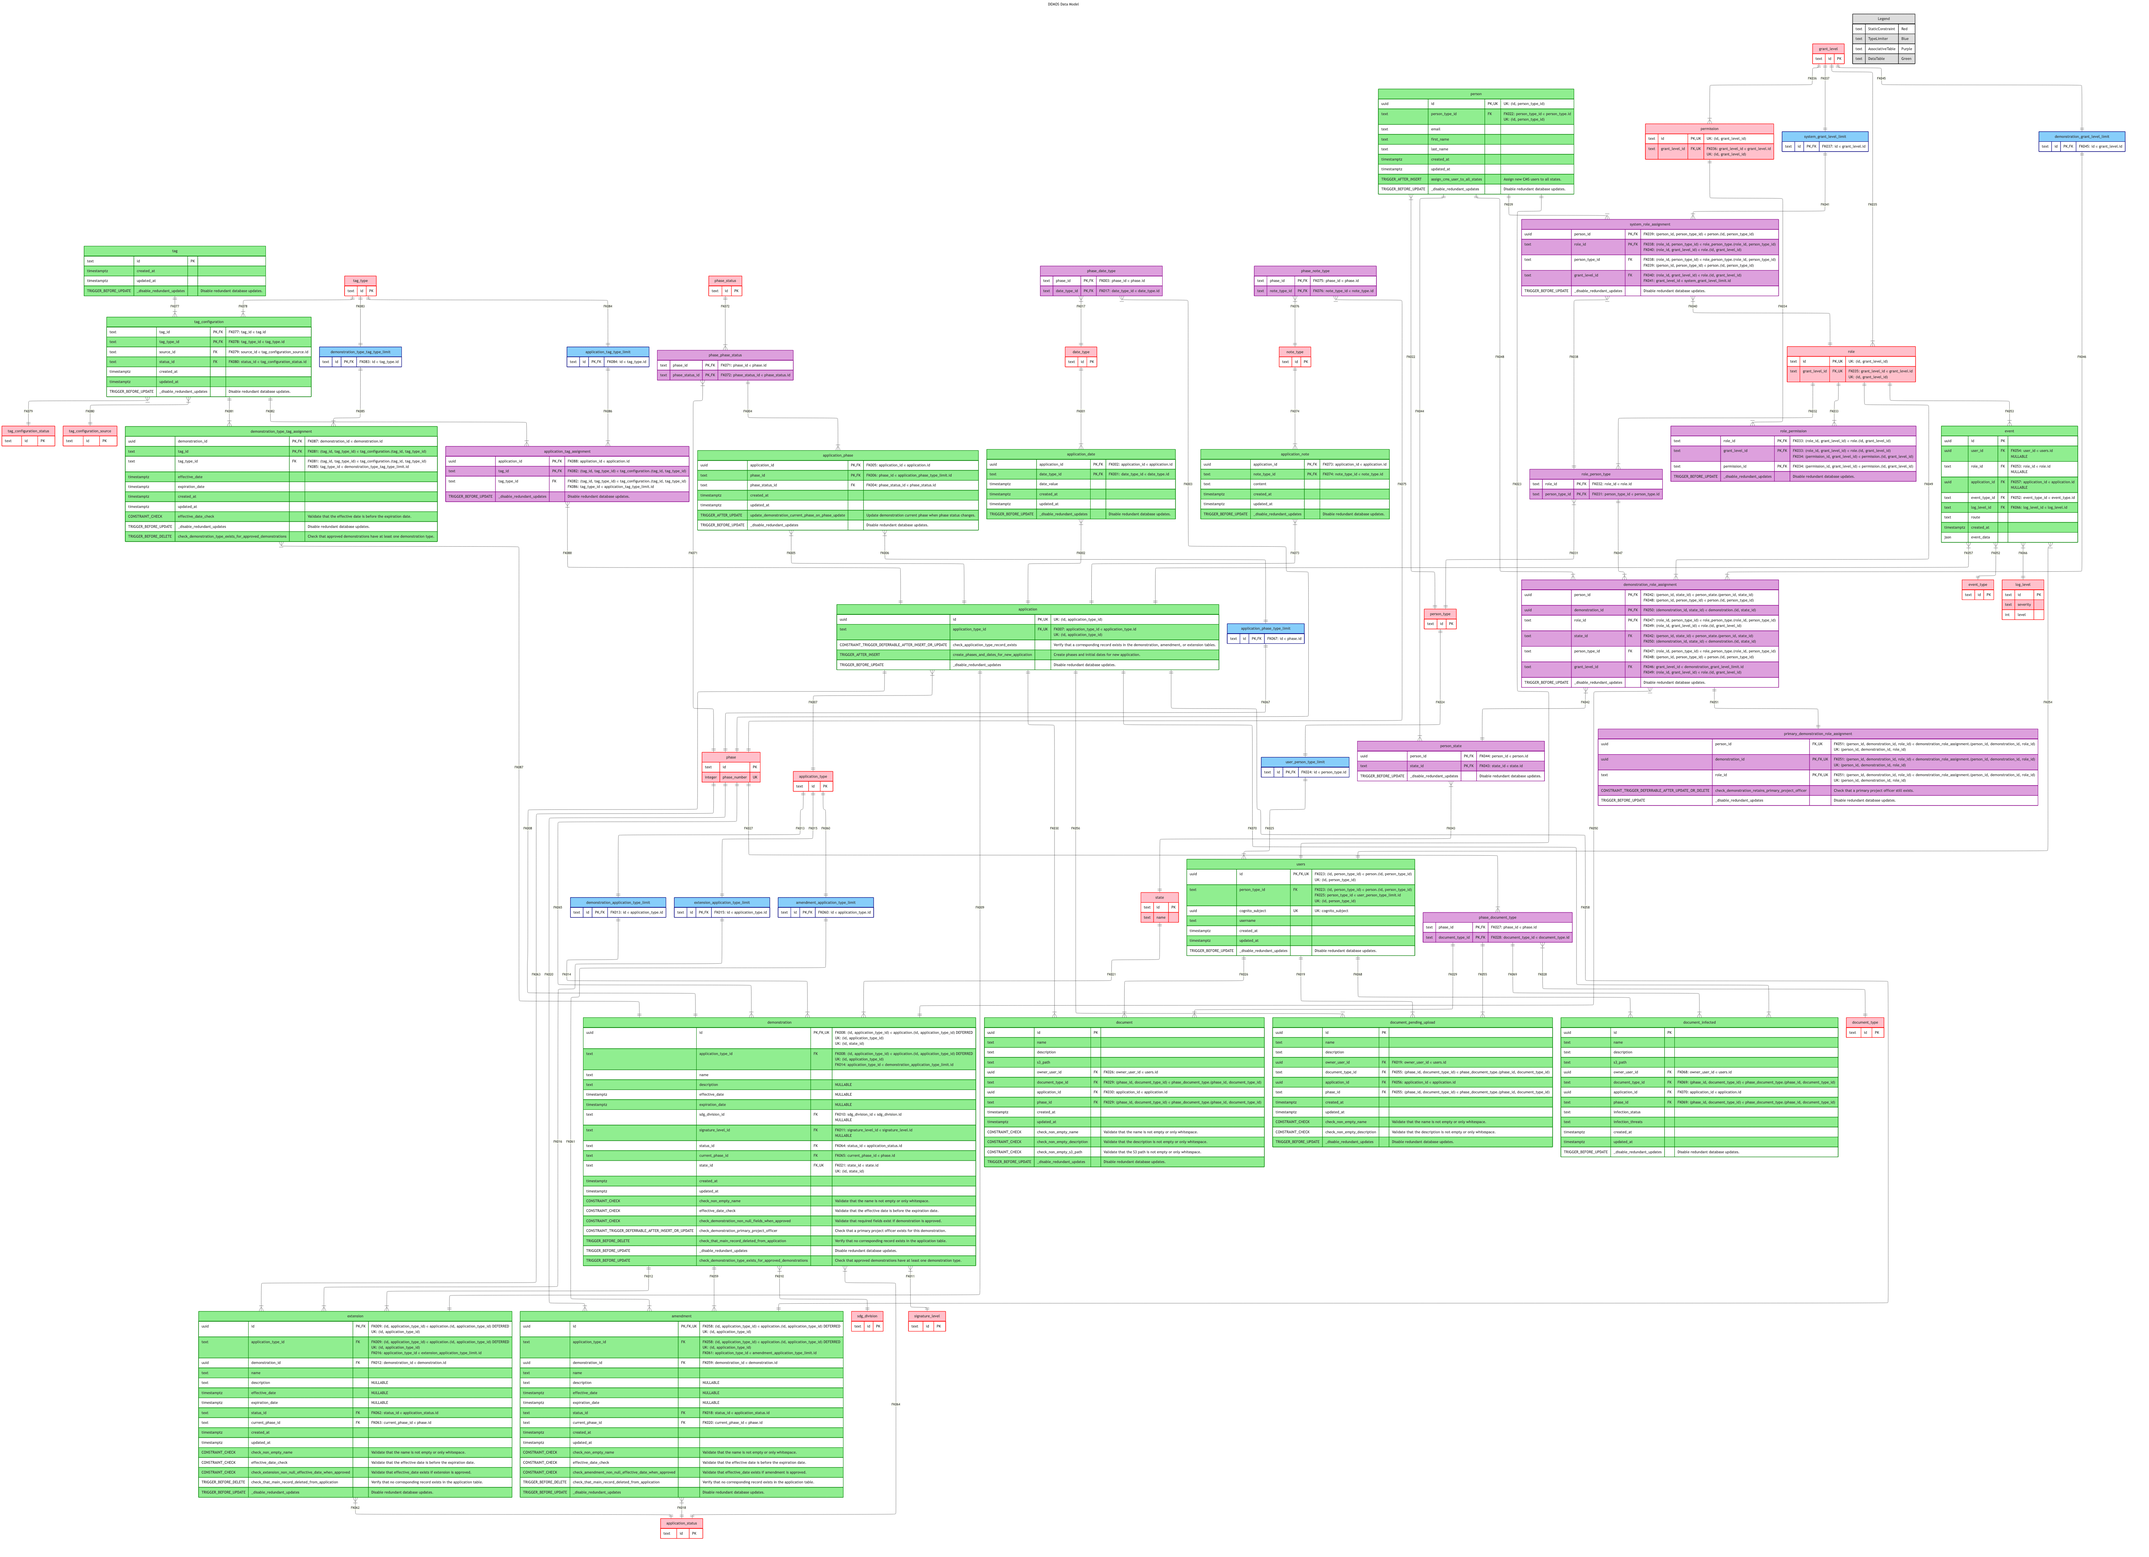
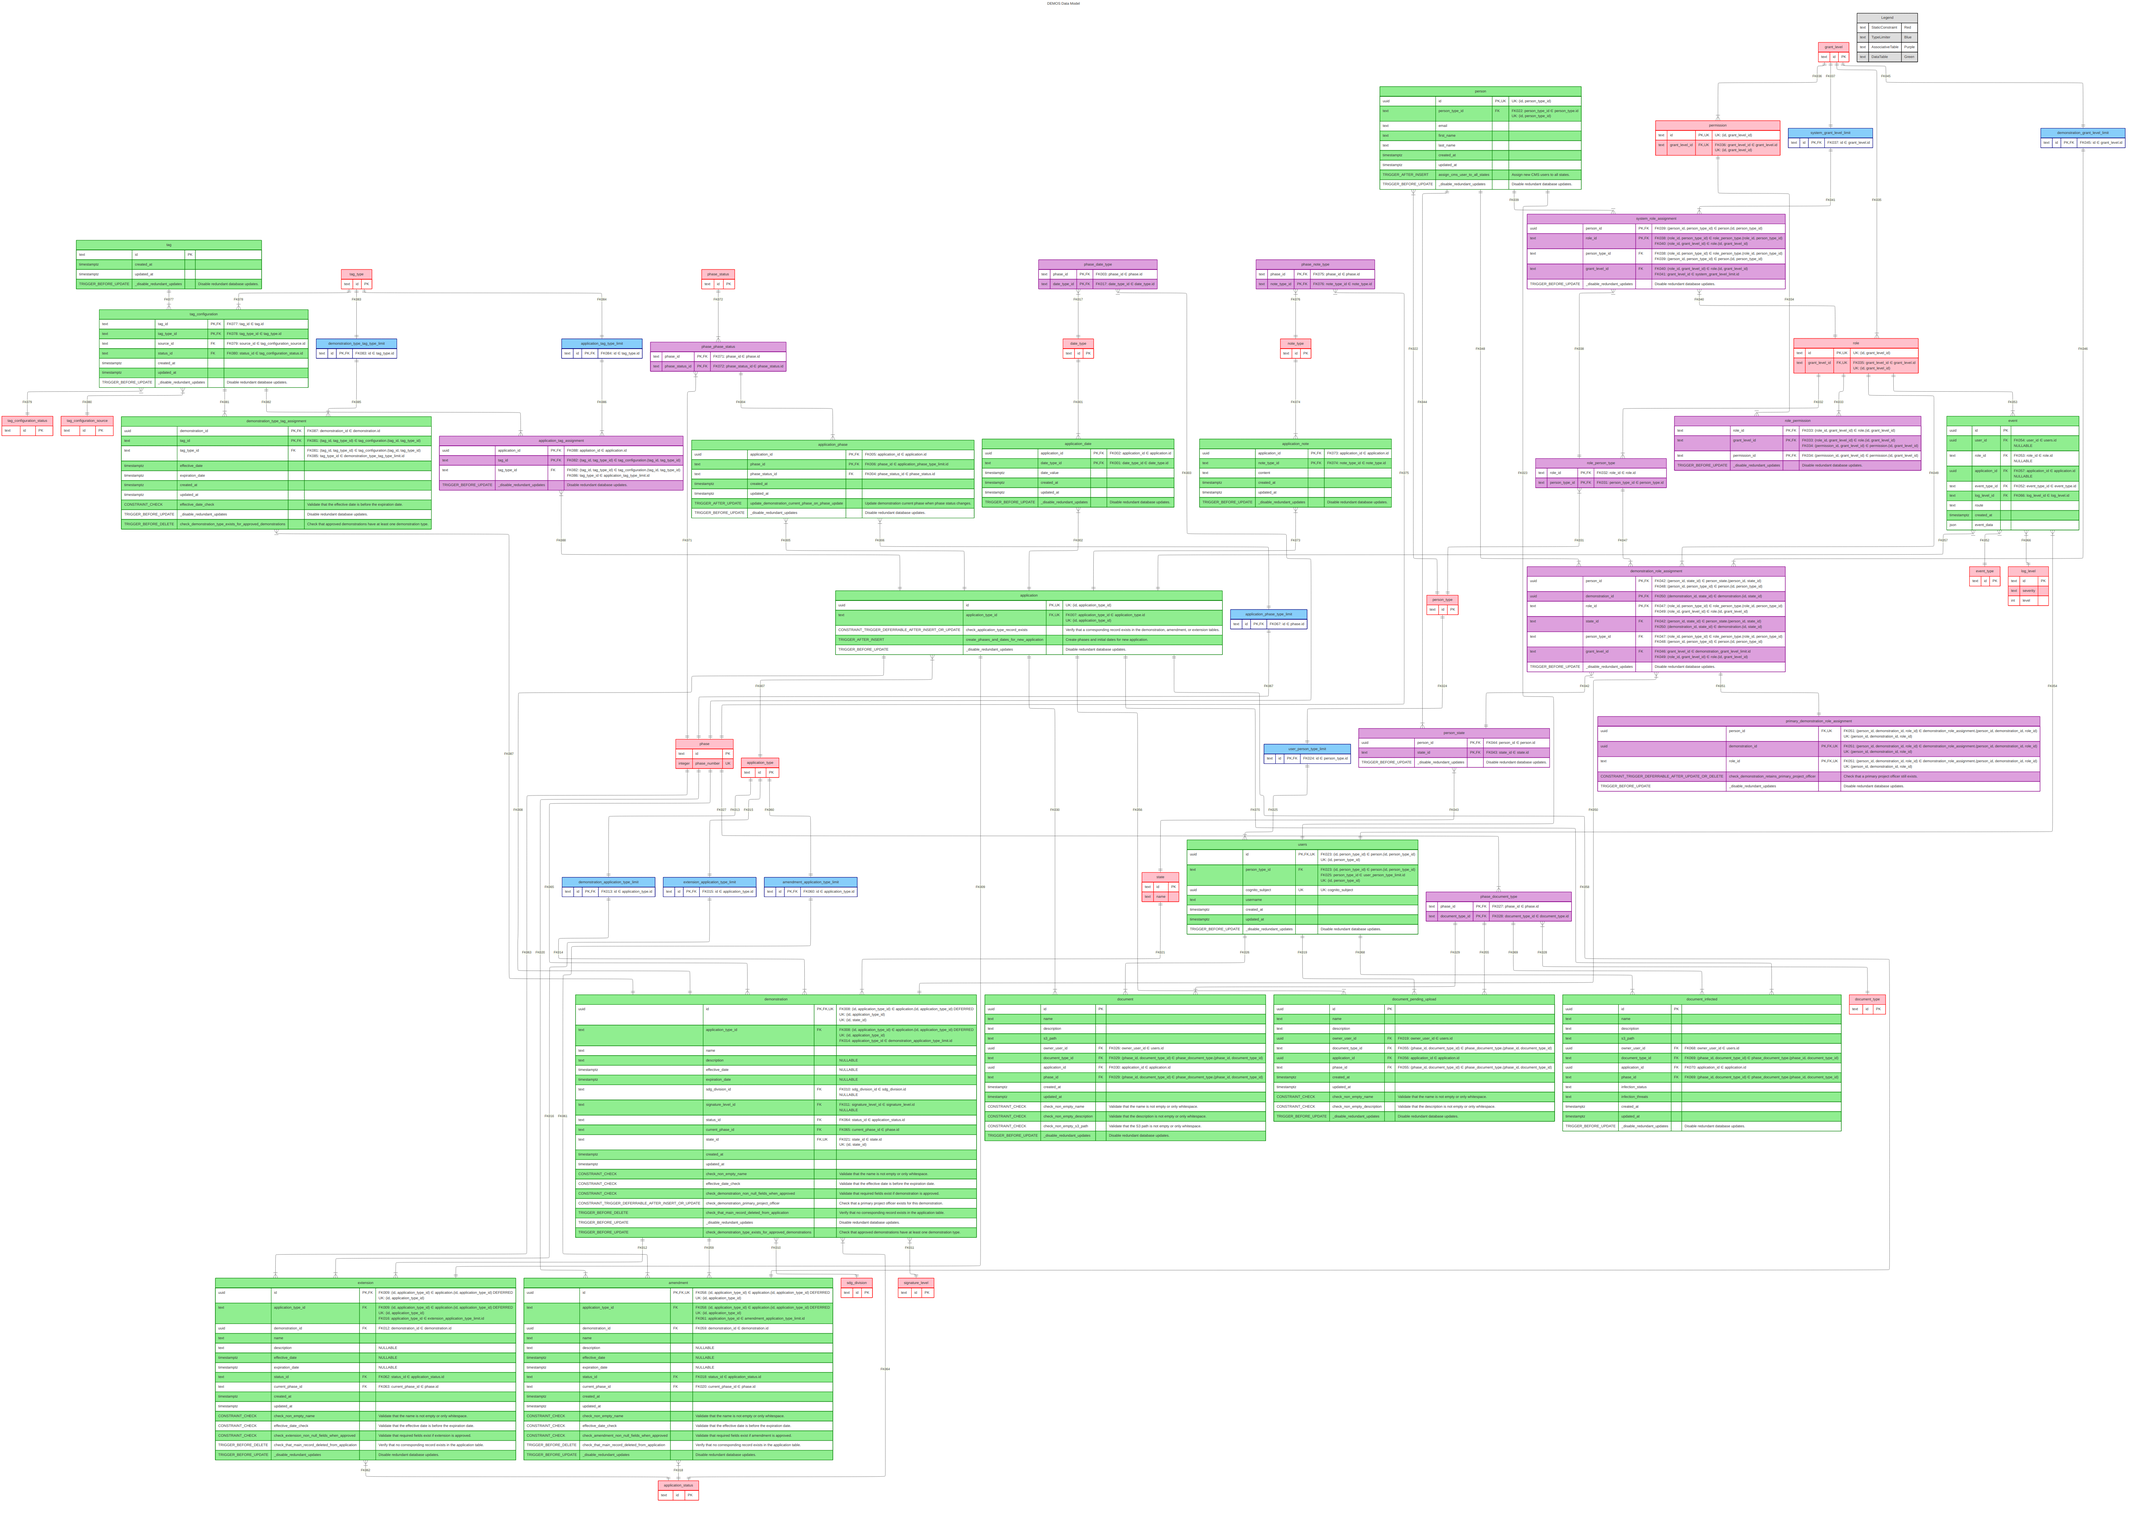
Demos 1472 be sdg division and signature level fields (#805)
* DEMOS-1472: added prisma and migrations for sdg_div and signature_lvl on mods

* DEMOS-1472: added query schema and resolvers for sdg and signaturlvl on mods

* DEMOS-1472: removed unneeded import

* DEMOS-1472: add resolvers for update and create mod for added fields

* DEMOS-1472: seeded modifications with random sig level and sdgs

* DEMOS-1472: removed sdg division

* DEMOS-1472: updated check constraint for modifications

* DEMOS-1472: updated tests

* DEMOS-1472: made history non-nullable, updated diagram

* DEMOS-1472: wrong field got changed, fixing

diff --git a/server/src/model/demonstration/demonstrationResolvers.test.ts b/server/src/model/demonstration/demonstrationResolvers.test.ts
@@ -8,8 +8,7 @@ import {
   __resolveDemonstrationState,
   __resolveDemonstrationAmendments,
   __resolveDemonstrationExtensions,
-  __resolveDemonstrationSdgDivision,
-  __resolveDemonstrationSignatureLevel,
+  resolveDemonstrationSdgDivision,
   __resolveDemonstrationRoleAssignments,
   __resolveDemonstrationPrimaryProjectOfficer,
   resolveDemonstrationTypes,
@@ -52,6 +51,7 @@ import {
   resolveApplicationStatus,
   resolveApplicationClearanceLevel,
   resolveApplicationTags,
+  resolveApplicationSignatureLevel,
 } from "../application";
 import { parseDateTimeOrLocalDateToEasternTZDate, EasternTZDate } from "../../dateUtilities.js";
 import { determineDemonstrationTypeStatus } from "./determineDemonstrationTypeStatus.js";
@@ -70,6 +70,7 @@ vi.mock("../application", () => ({
   resolveApplicationPhases: vi.fn(),
   resolveApplicationClearanceLevel: vi.fn(),
   resolveApplicationTags: vi.fn(),
+  resolveApplicationSignatureLevel: vi.fn(),
 }));
 
 vi.mock("../../errors/checkOptionalNotNullFields.js", () => ({
@@ -723,24 +724,13 @@ describe("demonstrationResolvers", () => {
     });
   });
 
-  describe("__resolveDemonstrationSdgDivision", () => {
+  describe("resolveDemonstrationSdgDivision", () => {
     it("should resolve the relevant SDG Division", () => {
       const input: Partial<PrismaDemonstration> = {
         sdgDivisionId: testValues.sdgDivisionId,
       };
-      expect(__resolveDemonstrationSdgDivision(input as PrismaDemonstration)).toBe(
+      expect(resolveDemonstrationSdgDivision(input as PrismaDemonstration)).toBe(
         testValues.sdgDivisionId
-      );
-    });
-  });
-
-  describe("__resolveDemonstrationSignatureLevel", () => {
-    it("should resolve the relevant signature level", () => {
-      const input: Partial<PrismaDemonstration> = {
-        signatureLevelId: testValues.signatureLevelId,
-      };
-      expect(__resolveDemonstrationSignatureLevel(input as PrismaDemonstration)).toBe(
-        testValues.signatureLevelId
       );
     });
   });

diff --git a/server/src/model/demonstration/demonstrationResolvers.ts b/server/src/model/demonstration/demonstrationResolvers.ts
@@ -30,6 +30,7 @@ import {
   resolveApplicationPhases,
   resolveApplicationStatus,
   resolveApplicationTags,
+  resolveApplicationSignatureLevel,
 } from "../application";
 import { determineDemonstrationTypeStatus } from "./determineDemonstrationTypeStatus.js";
 
@@ -227,14 +228,6 @@ export async function __resolveDemonstrationExtensions(
   });
 }
 
-export function __resolveDemonstrationSdgDivision(parent: PrismaDemonstration): string | null {
-  return parent.sdgDivisionId;
-}
-
-export function __resolveDemonstrationSignatureLevel(parent: PrismaDemonstration): string | null {
-  return parent.signatureLevelId;
-}
-
 export async function __resolveDemonstrationRoleAssignments(
   parent: PrismaDemonstration
 ): Promise<PrismaDemonstrationRoleAssignment[]> {
@@ -283,6 +276,10 @@ export async function resolveDemonstrationTypes(
   }));
 }
 
+export function resolveDemonstrationSdgDivision(parent: PrismaDemonstration): string | null {
+  return parent.sdgDivisionId;
+}
+
 export const demonstrationResolvers = {
   Query: {
     demonstration: __getDemonstration,
@@ -300,8 +297,8 @@ export const demonstrationResolvers = {
     documents: resolveApplicationDocuments,
     amendments: __resolveDemonstrationAmendments,
     extensions: __resolveDemonstrationExtensions,
-    sdgDivision: __resolveDemonstrationSdgDivision,
-    signatureLevel: __resolveDemonstrationSignatureLevel,
+    sdgDivision: resolveDemonstrationSdgDivision,
+    signatureLevel: resolveApplicationSignatureLevel,
     currentPhaseName: resolveApplicationCurrentPhaseName,
     roles: __resolveDemonstrationRoleAssignments,
     status: resolveApplicationStatus,

diff --git a/server/src/model/amendment/amendmentSchema.ts b/server/src/model/amendment/amendmentSchema.ts
@@ -10,6 +10,7 @@ import {
   DateTimeOrLocalDate,
   ClearanceLevel,
   Tag,
+  SignatureLevel,
 } from "../../types.js";
 
 export const amendmentSchema = gql`
@@ -23,16 +24,18 @@ export const amendmentSchema = gql`
     currentPhaseName: PhaseName!
     phases: [ApplicationPhase!]!
     documents: [Document!]!
-    createdAt: DateTime!
-    updatedAt: DateTime!
     clearanceLevel: ClearanceLevel!
     tags: [Tag!]!
+    signatureLevel: SignatureLevel
+    createdAt: DateTime!
+    updatedAt: DateTime!
   }
 
   input CreateAmendmentInput {
     demonstrationId: ID!
     name: NonEmptyString!
     description: String
+    signatureLevel: SignatureLevel
   }
 
   input UpdateAmendmentInput {
@@ -41,6 +44,7 @@ export const amendmentSchema = gql`
     description: String
     effectiveDate: DateTimeOrLocalDate
     status: ApplicationStatus
+    signatureLevel: SignatureLevel
   }
 
   type Mutation {
@@ -66,15 +70,17 @@ export interface Amendment {
   phases: ApplicationPhase[];
   documents: Document[];
   clearanceLevel: ClearanceLevel;
-  createdAt: Date;
-  updatedAt: Date;
   tags: Tag[];
+  signatureLevel?: SignatureLevel;
+  updatedAt: Date;
+  createdAt: Date;
 }
 
 export interface CreateAmendmentInput {
   demonstrationId: string;
   name: NonEmptyString;
   description: string | null;
+  signatureLevel?: SignatureLevel;
 }
 
 export interface UpdateAmendmentInput {
@@ -83,4 +89,5 @@ export interface UpdateAmendmentInput {
   description?: string | null;
   effectiveDate?: DateTimeOrLocalDate | null;
   status?: ApplicationStatus;
+  signatureLevel?: SignatureLevel;
 }

diff --git a/server/src/model/extension/extensionSchema.ts b/server/src/model/extension/extensionSchema.ts
@@ -10,6 +10,7 @@ import {
   DateTimeOrLocalDate,
   ClearanceLevel,
   Tag,
+  SignatureLevel,
 } from "../../types.js";
 
 export const extensionSchema = gql`
@@ -23,16 +24,18 @@ export const extensionSchema = gql`
     currentPhaseName: PhaseName!
     phases: [ApplicationPhase!]!
     documents: [Document!]!
-    createdAt: DateTime!
-    updatedAt: DateTime!
     clearanceLevel: ClearanceLevel!
     tags: [Tag!]!
+    signatureLevel: SignatureLevel
+    createdAt: DateTime!
+    updatedAt: DateTime!
   }
 
   input CreateExtensionInput {
     demonstrationId: ID!
     name: NonEmptyString!
     description: String
+    signatureLevel: SignatureLevel
   }
 
   input UpdateExtensionInput {
@@ -41,6 +44,7 @@ export const extensionSchema = gql`
     description: String
     effectiveDate: DateTimeOrLocalDate
     status: ApplicationStatus
+    signatureLevel: SignatureLevel
   }
 
   type Mutation {
@@ -66,15 +70,17 @@ export interface Extension {
   phases: ApplicationPhase[];
   documents: Document[];
   clearanceLevel: ClearanceLevel;
+  tags: Tag[];
+  signatureLevel?: SignatureLevel;
   createdAt: Date;
   updatedAt: Date;
-  tags: Tag[];
 }
 
 export interface CreateExtensionInput {
   demonstrationId: string;
   name: NonEmptyString;
   description: string | null;
+  signatureLevel?: SignatureLevel;
 }
 
 export interface UpdateExtensionInput {
@@ -83,4 +89,5 @@ export interface UpdateExtensionInput {
   description?: string | null;
   effectiveDate?: DateTimeOrLocalDate | null;
   status?: ApplicationStatus;
+  signatureLevel?: SignatureLevel;
 }

diff --git a/server/src/model/application/applicationResolvers.test.ts b/server/src/model/application/applicationResolvers.test.ts
@@ -7,6 +7,7 @@ import {
   resolveApplicationPhases,
   resolveApplicationClearanceLevel,
   resolveApplicationTags,
+  resolveApplicationSignatureLevel,
 } from "./applicationResolvers";
 import { PrismaApplication } from ".";
 import { ApplicationStatus, ApplicationType, PhaseName, Tag } from "../../types";
@@ -58,6 +59,7 @@ describe("applicationResolvers", () => {
   const testPhaseId: PhaseName = "Application Intake";
   const testApplicationStatusId: ApplicationStatus = "Approved";
   const testApplicationClearanceLevelId = "COMMs";
+  const testApplicationSignatureLevelId = "Level 1";
 
   beforeEach(() => {
     vi.resetAllMocks();
@@ -165,6 +167,15 @@ describe("applicationResolvers", () => {
         expectedCall
       );
       expect(result).toStrictEqual(expectedResult);
+    });
+  });
+  describe("resolveApplicationSignatureLevel", () => {
+    it("should resolve the current application signature level", async () => {
+      const input: Partial<PrismaApplication> = {
+        signatureLevelId: testApplicationSignatureLevelId,
+      };
+      const result = resolveApplicationSignatureLevel(input as PrismaApplication);
+      expect(result).toBe(testApplicationSignatureLevelId);
     });
   });
 });

diff --git a/server/src/model/amendment/amendmentResolvers.ts b/server/src/model/amendment/amendmentResolvers.ts
@@ -20,6 +20,7 @@ import {
   resolveApplicationPhases,
   resolveApplicationStatus,
   resolveApplicationTags,
+  resolveApplicationSignatureLevel,
 } from "../application";
 
 const amendmentApplicationType: ApplicationType = "Amendment";
@@ -57,6 +58,7 @@ export async function __createAmendment(
         description: input.description,
         statusId: newApplicationStatusId,
         currentPhaseId: conceptPhaseName,
+        signatureLevelId: input.signatureLevel,
       },
     });
   });
@@ -79,6 +81,7 @@ export async function __updateAmendment(
         description: input.description,
         effectiveDate: effectiveDate,
         statusId: input.status,
+        signatureLevelId: input.signatureLevel,
       },
     });
   } catch (error) {
@@ -125,5 +128,6 @@ export const amendmentResolvers = {
     phases: resolveApplicationPhases,
     clearanceLevel: resolveApplicationClearanceLevel,
     tags: resolveApplicationTags,
+    signatureLevel: resolveApplicationSignatureLevel,
   },
 };

diff --git a/server/src/model/extension/extensionResolvers.ts b/server/src/model/extension/extensionResolvers.ts
@@ -20,6 +20,7 @@ import {
   resolveApplicationPhases,
   resolveApplicationStatus,
   resolveApplicationTags,
+  resolveApplicationSignatureLevel,
 } from "../application";
 
 const extensionApplicationType: ApplicationType = "Extension";
@@ -57,6 +58,7 @@ export async function __createExtension(
         description: input.description,
         statusId: newApplicationStatusId,
         currentPhaseId: conceptPhaseName,
+        signatureLevelId: input.signatureLevel,
       },
     });
   });
@@ -79,6 +81,7 @@ export async function __updateExtension(
         description: input.description,
         effectiveDate: effectiveDate,
         statusId: input.status,
+        signatureLevelId: input.signatureLevel,
       },
     });
   } catch (error) {
@@ -125,5 +128,6 @@ export const extensionResolvers = {
     phases: resolveApplicationPhases,
     clearanceLevel: resolveApplicationClearanceLevel,
     tags: resolveApplicationTags,
+    signatureLevel: resolveApplicationSignatureLevel,
   },
 };

diff --git a/server/src/seeder.ts b/server/src/seeder.ts
@@ -585,6 +585,7 @@ async function seedDatabase() {
       demonstrationId: (await prisma().demonstration.findRandom())!.id,
       name: faker.lorem.words(3),
       description: faker.lorem.sentence(),
+      signatureLevel: sampleFromArray([...SIGNATURE_LEVEL, undefined], 1)[0],
     };
     await __createAmendment(undefined, { input: createInput });
   }
@@ -607,6 +608,7 @@ async function seedDatabase() {
       demonstrationId: (await prisma().demonstration.findRandom())!.id,
       name: faker.lorem.words(3),
       description: faker.lorem.sentence(),
+      signatureLevel: sampleFromArray([...SIGNATURE_LEVEL, undefined], 1)[0],
     };
     await __createExtension(undefined, { input: createInput });
   }

diff --git a/server/src/model/amendment/amendmentResolvers.test.ts b/server/src/model/amendment/amendmentResolvers.test.ts
@@ -30,6 +30,7 @@ import {
   resolveApplicationPhases,
   resolveApplicationClearanceLevel,
   resolveApplicationTags,
+  resolveApplicationSignatureLevel,
 } from "../application";
 import { checkOptionalNotNullFields } from "../../errors/checkOptionalNotNullFields.js";
 import { handlePrismaError } from "../../errors/handlePrismaError.js";
@@ -53,6 +54,7 @@ vi.mock("../application", () => ({
   resolveApplicationPhases: vi.fn(),
   resolveApplicationClearanceLevel: vi.fn(),
   resolveApplicationTags: vi.fn(),
+  resolveApplicationSignatureLevel: vi.fn(),
 }));
 
 vi.mock("../../errors/checkOptionalNotNullFields.js", () => ({

diff --git a/server/src/model/extension/extensionResolvers.test.ts b/server/src/model/extension/extensionResolvers.test.ts
@@ -30,6 +30,7 @@ import {
   resolveApplicationPhases,
   resolveApplicationClearanceLevel,
   resolveApplicationTags,
+  resolveApplicationSignatureLevel,
 } from "../application";
 import { checkOptionalNotNullFields } from "../../errors/checkOptionalNotNullFields.js";
 import { handlePrismaError } from "../../errors/handlePrismaError.js";
@@ -53,6 +54,7 @@ vi.mock("../application", () => ({
   resolveApplicationPhases: vi.fn(),
   resolveApplicationClearanceLevel: vi.fn(),
   resolveApplicationTags: vi.fn(),
+  resolveApplicationSignatureLevel: vi.fn(),
 }));
 
 vi.mock("../../errors/checkOptionalNotNullFields.js", () => ({

diff --git a/server/src/model/application/applicationResolvers.ts b/server/src/model/application/applicationResolvers.ts
@@ -25,6 +25,10 @@ export function resolveApplicationStatus(parent: PrismaApplication): string {
   return parent.statusId;
 }
 
+export function resolveApplicationSignatureLevel(parent: PrismaApplication): string | null {
+  return parent.signatureLevelId;
+}
+
 export function resolveApplicationType(parent: PrismaApplication): string {
   return parent.applicationTypeId;
 }

diff --git a/server/src/model/application/index.ts b/server/src/model/application/index.ts
@@ -8,6 +8,7 @@ export {
   resolveApplicationPhases,
   resolveApplicationClearanceLevel,
   resolveApplicationTags,
+  resolveApplicationSignatureLevel,
 } from "./applicationResolvers";
 export { updateApplicationStatusToUnderReviewIfNeeded } from "./updateApplicationStatusToUnderReviewIfNeeded";
 
